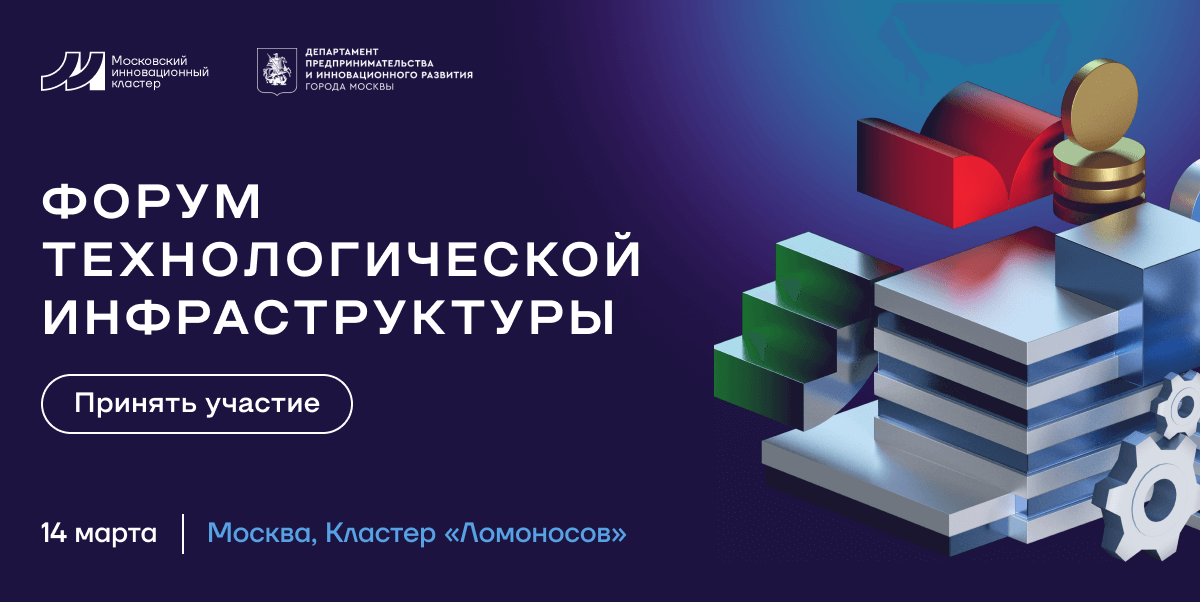
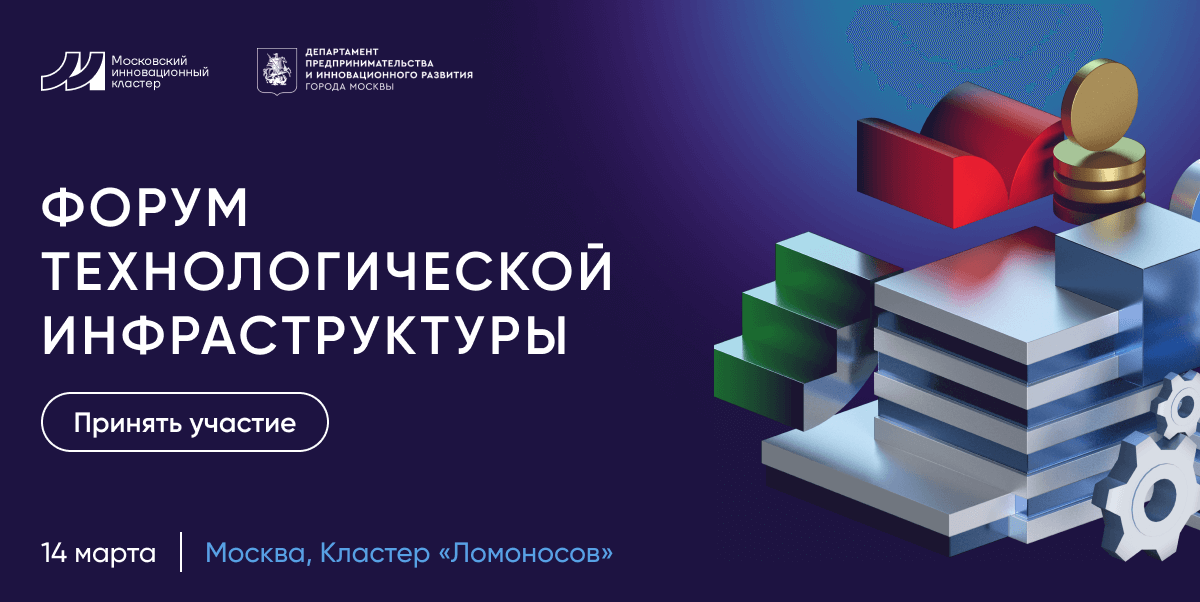
add mik-200

diff --git a/mik-200/Форум Технологической Инфраструктуры.html b/mik-200/Форум Технологической Инфраструктуры.html
@@ -136,37 +136,37 @@
             <tbody>
             <tr>
                 <td style="direction:ltr;font-size:0px;text-align:center;">
-                    <!--[if mso | IE]><table role="presentation" border="0" cellpadding="0" cellspacing="0"><tr><td class="" style="vertical-align:top;width:120px;margin-bottom:50px;" ><![endif]-->
-                    <div class="mj-outlook-group-fix" style="font-size:0px;text-align:left;direction:ltr;display:inline-block;vertical-align:top;width:120px;margin-bottom:50px;">
+                    <!--[if mso | IE]><table role="presentation" border="0" cellpadding="0" cellspacing="0"><tr><td class="" style="vertical-align:top;width:120px;margin-bottom:48px;" ><![endif]-->
+                    <div class="mj-outlook-group-fix" style="font-size:0px;text-align:left;direction:ltr;display:inline-block;vertical-align:top;width:120px;margin-bottom:48px;">
                         <table border="0" cellpadding="0" cellspacing="0" role="presentation" style="vertical-align:top;" width="100%">
                             <tbody>
                             <tr>
                                 <td align="left" style="font-size:0px;word-break:break-word;">
-                                    <div style="font-family: Gilroy, Helvetica, Arial, sans-serif;font-size:14px;font-weight:400;line-height:18.6px;text-align:left;color:#FFFFFF;"><span style="font-weight:700;font-size:40px;line-height:40px;">800+</span><br />участников</div>
+                                    <div style="font-family: Gilroy, Helvetica, Arial, sans-serif;font-size:14px;font-weight:400;line-height:16.24px;text-align:left;color:#FFFFFF;"><span style="font-weight:700;font-size:40px;line-height:40px;">800+</span><br />участников</div>
                                 </td>
                             </tr>
                             </tbody>
                         </table>
                     </div>
-                    <!--[if mso | IE]></td><td class="" style="vertical-align:top;width:120px;margin-right: 100px;margin-left: 100px;margin-bottom:50px;" ><![endif]-->
-                    <div class="mj-outlook-group-fix" style="font-size:0px;text-align:left;direction:ltr;display:inline-block;vertical-align:top;width:120px;margin-right: 100px;margin-left: 100px;margin-bottom:50px;">
+                    <!--[if mso | IE]></td><td class="" style="vertical-align:top;width:120px;margin-right: 100px;margin-left: 100px;margin-bottom:48px;" ><![endif]-->
+                    <div class="mj-outlook-group-fix" style="font-size:0px;text-align:left;direction:ltr;display:inline-block;vertical-align:top;width:120px;margin-right: 100px;margin-left: 100px;margin-bottom:48px;">
                         <table border="0" cellpadding="0" cellspacing="0" role="presentation" style="vertical-align:top;" width="100%">
                             <tbody>
                             <tr>
                                 <td align="left" style="font-size:0px;word-break:break-word;">
-                                    <div style="font-family: Gilroy, Helvetica, Arial, sans-serif;font-size:14px;font-weight:400;line-height:18.6px;text-align:left;color:#FFFFFF;"><span style="font-weight:700;font-size:40px;line-height:40px;">50+</span><br />спикеров</div>
+                                    <div style="font-family: Gilroy, Helvetica, Arial, sans-serif;font-size:14px;font-weight:400;line-height:16.24px;text-align:left;color:#FFFFFF;"><span style="font-weight:700;font-size:40px;line-height:40px;">50+</span><br />спикеров</div>
                                 </td>
                             </tr>
                             </tbody>
                         </table>
                     </div>
-                    <!--[if mso | IE]></td><td class="" style="vertical-align:top;width:120px;margin-bottom:50px;" ><![endif]-->
-                    <div class="mj-outlook-group-fix" style="font-size:0px;text-align:left;direction:ltr;display:inline-block;vertical-align:top;width:120px;margin-bottom:50px;">
+                    <!--[if mso | IE]></td><td class="" style="vertical-align:top;width:120px;margin-bottom:48px;" ><![endif]-->
+                    <div class="mj-outlook-group-fix" style="font-size:0px;text-align:left;direction:ltr;display:inline-block;vertical-align:top;width:120px;margin-bottom:48px;">
                         <table border="0" cellpadding="0" cellspacing="0" role="presentation" style="vertical-align:top;" width="100%">
                             <tbody>
                             <tr>
                                 <td align="left" style="font-size:0px;word-break:break-word;">
-                                    <div style="font-family: Gilroy, Helvetica, Arial, sans-serif;font-size:14px;font-weight:400;line-height:18.6px;text-align:left;color:#FFFFFF;"><span style="font-weight:700;font-size:40px;line-height:40px;">12+</span><br />сессий деловой программы</div>
+                                    <div style="font-family: Gilroy, Helvetica, Arial, sans-serif;font-size:14px;font-weight:400;line-height:16.24px;text-align:left;color:#FFFFFF;"><span style="font-weight:700;font-size:40px;line-height:40px;">12+</span><br />сессий деловой программы</div>
                                 </td>
                             </tr>
                             </tbody>
@@ -189,8 +189,80 @@
                         <table border="0" cellpadding="0" cellspacing="0" role="presentation" style="vertical-align:top;" width="100%">
                             <tbody>
                             <tr>
-                                <td align="left" style="font-size:0px;word-break:break-word;">
-                                    <div style="font-family: Gilroy, Helvetica, Arial, sans-serif;font-size:32px;font-weight:400;line-height:32px;text-align:left;color:#FFFFFF;">Что вас ждет на мероприятии</div>
+                                <td align="left" style="font-size:0px;word-break:break-word;padding:0 20px 24px;">
+                                    <div style="font-family: Gilroy, Helvetica, Arial, sans-serif;font-size:32px;font-weight:400;line-height:32px;text-align:left;color:#FFFFFF;">Что вас ждет на&nbsp;мероприятии</div>
+                                </td>
+                            </tr>
+                            </tbody>
+                        </table>
+                    </div>
+                    <!--[if mso | IE]></td></tr></table><![endif]-->
+                </td>
+            </tr>
+            </tbody>
+        </table>
+    </div>
+    <!--[if mso | IE]></td></tr></table><table align="center" border="0" cellpadding="0" cellspacing="0" class="" style="width:560px;" width="560" bgcolor="#2E66FF" ><tr><td style="line-height:0px;font-size:0px;mso-line-height-rule:exactly;"><![endif]-->
+    <div style="background:#2E66FF;background-color:#2E66FF;margin:0px auto;border-radius:20px;max-width:560px;border:1px solid #FFFFFF;margin-bottom:24px;">
+        <table align="center" border="0" cellpadding="0" cellspacing="0" role="presentation" style="background:#2E66FF;background-color:#2E66FF;width:100%;border-radius:20px;">
+            <tbody>
+            <tr>
+                <td style="direction:ltr;font-size:0px;text-align:center;">
+                    <!--[if mso | IE]><table role="presentation" border="0" cellpadding="0" cellspacing="0"><tr><td class="" style="vertical-align:top;width:598px;" ><![endif]-->
+                    <div class="mj-column-per-100 mj-outlook-group-fix" style="font-size:0px;text-align:left;direction:ltr;display:inline-block;vertical-align:top;width:100%;">
+                        <table border="0" cellpadding="0" cellspacing="0" role="presentation" style="vertical-align:top;" width="100%">
+                            <tbody>
+                            <tr>
+                                <td align="left" style="font-size:0px;word-break:break-word;padding:19px 24px;">
+                                    <div style="font-family: Gilroy, Helvetica, Arial, sans-serif;font-size:16px;font-weight:500;line-height:20.8px;text-align:left;color:#FFFFFF;">Презентация возможностей, доступных предпринимателям в&nbsp;технопарках и&nbsp;особых экономических зонах</div>
+                                </td>
+                            </tr>
+                            </tbody>
+                        </table>
+                    </div>
+                    <!--[if mso | IE]></td></tr></table><![endif]-->
+                </td>
+            </tr>
+            </tbody>
+        </table>
+    </div>
+    <!--[if mso | IE]></td></tr></table><table align="center" border="0" cellpadding="0" cellspacing="0" class="" style="width:560px;" width="560" bgcolor="#2E66FF" ><tr><td style="line-height:0px;font-size:0px;mso-line-height-rule:exactly;"><![endif]-->
+    <div style="background:#2E66FF;background-color:#2E66FF;margin:0px auto;border-radius:20px;max-width:560px;border:1px solid #FFFFFF;margin-bottom:24px;">
+        <table align="center" border="0" cellpadding="0" cellspacing="0" role="presentation" style="background:#2E66FF;background-color:#2E66FF;width:100%;border-radius:20px;">
+            <tbody>
+            <tr>
+                <td style="direction:ltr;font-size:0px;text-align:center;">
+                    <!--[if mso | IE]><table role="presentation" border="0" cellpadding="0" cellspacing="0"><tr><td class="" style="vertical-align:top;width:598px;" ><![endif]-->
+                    <div class="mj-column-per-100 mj-outlook-group-fix" style="font-size:0px;text-align:left;direction:ltr;display:inline-block;vertical-align:top;width:100%;">
+                        <table border="0" cellpadding="0" cellspacing="0" role="presentation" style="vertical-align:top;" width="100%">
+                            <tbody>
+                            <tr>
+                                <td align="left" style="font-size:0px;word-break:break-word;padding:19px 24px;">
+                                    <div style="font-family: Gilroy, Helvetica, Arial, sans-serif;font-size:16px;font-weight:500;line-height:20.8px;text-align:left;color:#FFFFFF;">Популяризация лучших практик создания и&nbsp;управления объектами технологической инфраструктуры</div>
+                                </td>
+                            </tr>
+                            </tbody>
+                        </table>
+                    </div>
+                    <!--[if mso | IE]></td></tr></table><![endif]-->
+                </td>
+            </tr>
+            </tbody>
+        </table>
+    </div>
+    <!--[if mso | IE]></td></tr></table><table align="center" border="0" cellpadding="0" cellspacing="0" class="" style="width:560px;" width="560" bgcolor="#2E66FF" ><tr><td style="line-height:0px;font-size:0px;mso-line-height-rule:exactly;"><![endif]-->
+    <div style="background:#2E66FF;background-color:#2E66FF;margin:0px auto;border-radius:20px;max-width:560px;border:1px solid #FFFFFF;margin-bottom:24px;">
+        <table align="center" border="0" cellpadding="0" cellspacing="0" role="presentation" style="background:#2E66FF;background-color:#2E66FF;width:100%;border-radius:20px;">
+            <tbody>
+            <tr>
+                <td style="direction:ltr;font-size:0px;text-align:center;">
+                    <!--[if mso | IE]><table role="presentation" border="0" cellpadding="0" cellspacing="0"><tr><td class="" style="vertical-align:top;width:598px;" ><![endif]-->
+                    <div class="mj-column-per-100 mj-outlook-group-fix" style="font-size:0px;text-align:left;direction:ltr;display:inline-block;vertical-align:top;width:100%;">
+                        <table border="0" cellpadding="0" cellspacing="0" role="presentation" style="vertical-align:top;" width="100%">
+                            <tbody>
+                            <tr>
+                                <td align="left" style="font-size:0px;word-break:break-word;padding:19px 24px;">
+                                    <div style="font-family: Gilroy, Helvetica, Arial, sans-serif;font-size:16px;font-weight:500;line-height:20.8px;text-align:left;color:#FFFFFF;">Встречи с&nbsp;лидерами рынка — операторами технологических площадок, крупнейшими девелоперами, инвесторами и&nbsp;предпринимателями</div>
                                 </td>
                             </tr>
                             </tbody>
@@ -213,8 +285,8 @@
                         <table border="0" cellpadding="0" cellspacing="0" role="presentation" style="vertical-align:top;" width="100%">
                             <tbody>
                             <tr>
-                                <td align="left" style="font-size:0px;word-break:break-word;">
-                                    <div style="font-family: Gilroy, Helvetica, Arial, sans-serif;font-size:16px;font-weight:700;line-height:20.8px;text-align:left;color:#FFFFFF;">Презентация возможностей, доступных предпринимателям в технопарках и особых экономических зонах</div>
+                                <td align="left" style="font-size:0px;word-break:break-word;padding:19px 24px;">
+                                    <div style="font-family: Gilroy, Helvetica, Arial, sans-serif;font-size:16px;font-weight:500;line-height:20.8px;text-align:left;color:#FFFFFF;">Питч-сессии, дискуссии и&nbsp;мастер-классы от&nbsp;ведущих отраслевых экспертов</div>
                                 </td>
                             </tr>
                             </tbody>
@@ -237,7 +309,7 @@
                         <table border="0" cellpadding="0" cellspacing="0" role="presentation" style="vertical-align:top;" width="100%">
                             <tbody>
                             <tr>
-                                <td align="left" style="font-size:0px;word-break:break-word;">
+                                <td align="left" style="font-size:0px;word-break:break-word;padding:52px 20px 23px;">
                                     <div style="font-family: Gilroy, Helvetica, Arial, sans-serif;font-size:32px;font-weight:400;line-height:32px;text-align:left;color:#FFFFFF;">Для кого этот форум</div>
                                 </td>
                             </tr>
@@ -256,25 +328,97 @@
             <tbody>
             <tr>
                 <td style="direction:ltr;font-size:0px;text-align:center;">
-                    <!--[if mso | IE]><table role="presentation" border="0" cellpadding="0" cellspacing="0"><tr><td class="" style="vertical-align:top;width:300px;" ><![endif]-->
-                    <div class="mj-outlook-group-fix" style="font-size:0px;text-align:left;direction:ltr;display:inline-block;vertical-align:top;width:100%;">
+                    <!--[if mso | IE]><table role="presentation" border="0" cellpadding="0" cellspacing="0"><tr><td class="" style="vertical-align:top;width:268px;border-radius:20px;border:1px solid #FFFFFF;height:80px;margin-left:12px;margin-right:12px;margin-bottom:25px;" ><![endif]-->
+                    <div class="mj-outlook-group-fix" style="font-size:0px;text-align:left;direction:ltr;display:inline-block;vertical-align:top;width:268px;border-radius:20px;border:1px solid #FFFFFF;height:80px;margin-left:12px;margin-right:12px;margin-bottom:25px;">
                         <table border="0" cellpadding="0" cellspacing="0" role="presentation" style="vertical-align:top;" width="100%">
                             <tbody>
                             <tr>
-                                <td align="left" style="font-size:0px;word-break:break-word;">
-                                    <div style="font-family: Gilroy, Helvetica, Arial, sans-serif;font-size:16px;font-weight:700;line-height:20.8px;text-align:left;color:#FFFFFF;">Девелоперы и управляющие компании</div>
+                                <td align="left" style="font-size:0px;word-break:break-word;padding:19px 25px;">
+                                    <div style="font-family: Gilroy, Helvetica, Arial, sans-serif;font-size:16px;font-weight:700;line-height:20.8px;text-align:center;color:#FFFFFF;">Девелоперы и&nbsp;управляющие компании</div>
                                 </td>
                             </tr>
                             </tbody>
                         </table>
                     </div>
-                    <!--[if mso | IE]></td><td class="" style="vertical-align:top;width:300px;" ><![endif]-->
-                    <div class="mj-outlook-group-fix" style="font-size:0px;text-align:left;direction:ltr;display:inline-block;vertical-align:top;width:100%;">
+                    <!--[if mso | IE]></td><td class="" style="vertical-align:top;width:268px;border-radius:20px;border:1px solid #FFFFFF;height:80px;margin-left:12px;margin-right:12px;margin-bottom:25px;" ><![endif]-->
+                    <div class="mj-outlook-group-fix" style="font-size:0px;text-align:left;direction:ltr;display:inline-block;vertical-align:top;width:268px;border-radius:20px;border:1px solid #FFFFFF;height:80px;margin-left:12px;margin-right:12px;margin-bottom:25px;">
                         <table border="0" cellpadding="0" cellspacing="0" role="presentation" style="vertical-align:top;" width="100%">
                             <tbody>
                             <tr>
-                                <td align="left" style="font-size:0px;word-break:break-word;">
-                                    <div style="font-family: Gilroy, Helvetica, Arial, sans-serif;font-size:16px;font-weight:700;line-height:20.8px;text-align:left;color:#FFFFFF;">Технологические компании</div>
+                                <td align="left" style="font-size:0px;word-break:break-word;padding:19px 25px;">
+                                    <div style="font-family: Gilroy, Helvetica, Arial, sans-serif;font-size:16px;font-weight:700;line-height:20.8px;text-align:center;color:#FFFFFF;">Технологические<br/>компании</div>
+                                </td>
+                            </tr>
+                            </tbody>
+                        </table>
+                    </div>
+                    <!--[if mso | IE]></td></tr></table><![endif]-->
+                </td>
+            </tr>
+            </tbody>
+        </table>
+    </div>
+    <!--[if mso | IE]></td></tr></table><table align="center" border="0" cellpadding="0" cellspacing="0" class="" style="width:600px;" width="600" ><tr><td style="line-height:0px;font-size:0px;mso-line-height-rule:exactly;"><![endif]-->
+    <div style="margin:0px auto;max-width:600px;">
+        <table align="center" border="0" cellpadding="0" cellspacing="0" role="presentation" style="width:100%;">
+            <tbody>
+            <tr>
+                <td style="direction:ltr;font-size:0px;text-align:center;">
+                    <!--[if mso | IE]><table role="presentation" border="0" cellpadding="0" cellspacing="0"><tr><td class="" style="vertical-align:top;width:268px;border-radius:20px;border:1px solid #FFFFFF;height:80px;margin-left:12px;margin-right:12px;margin-bottom:25px;" ><![endif]-->
+                    <div class="mj-outlook-group-fix" style="font-size:0px;text-align:left;direction:ltr;display:inline-block;vertical-align:top;width:268px;border-radius:20px;border:1px solid #FFFFFF;height:80px;margin-left:12px;margin-right:12px;margin-bottom:25px;">
+                        <table border="0" cellpadding="0" cellspacing="0" role="presentation" style="vertical-align:top;" width="100%">
+                            <tbody>
+                            <tr>
+                                <td align="left" style="font-size:0px;word-break:break-word;padding:19px 25px;">
+                                    <div style="font-family: Gilroy, Helvetica, Arial, sans-serif;font-size:16px;font-weight:700;line-height:20.8px;text-align:center;color:#FFFFFF;">Банки и&nbsp;инвестиционные фонды</div>
+                                </td>
+                            </tr>
+                            </tbody>
+                        </table>
+                    </div>
+                    <!--[if mso | IE]></td><td class="" style="vertical-align:top;width:268px;border-radius:20px;border:1px solid #FFFFFF;height:80px;margin-left:12px;margin-right:12px;margin-bottom:25px;" ><![endif]-->
+                    <div class="mj-outlook-group-fix" style="font-size:0px;text-align:left;direction:ltr;display:inline-block;vertical-align:top;width:268px;border-radius:20px;border:1px solid #FFFFFF;height:80px;margin-left:12px;margin-right:12px;margin-bottom:25px;">
+                        <table border="0" cellpadding="0" cellspacing="0" role="presentation" style="vertical-align:top;" width="100%">
+                            <tbody>
+                            <tr>
+                                <td align="left" style="font-size:0px;word-break:break-word;padding:19px 25px;">
+                                    <div style="font-family: Gilroy, Helvetica, Arial, sans-serif;font-size:16px;font-weight:700;line-height:20.8px;text-align:center;color:#FFFFFF;">Институты развития и&nbsp;органы власти</div>
+                                </td>
+                            </tr>
+                            </tbody>
+                        </table>
+                    </div>
+                    <!--[if mso | IE]></td></tr></table><![endif]-->
+                </td>
+            </tr>
+            </tbody>
+        </table>
+    </div>
+    <!--[if mso | IE]></td></tr></table><table align="center" border="0" cellpadding="0" cellspacing="0" class="" style="width:600px;" width="600" ><tr><td style="line-height:0px;font-size:0px;mso-line-height-rule:exactly;"><![endif]-->
+    <div style="margin:0px auto;max-width:600px;">
+        <table align="center" border="0" cellpadding="0" cellspacing="0" role="presentation" style="width:100%;">
+            <tbody>
+            <tr>
+                <td style="direction:ltr;font-size:0px;text-align:center;">
+                    <!--[if mso | IE]><table role="presentation" border="0" cellpadding="0" cellspacing="0"><tr><td class="" style="vertical-align:top;width:268px;border-radius:20px;border:1px solid #FFFFFF;height:103px;margin-left:12px;margin-right:12px;margin-bottom:25px;" ><![endif]-->
+                    <div class="mj-outlook-group-fix" style="font-size:0px;text-align:left;direction:ltr;display:inline-block;vertical-align:top;width:268px;border-radius:20px;border:1px solid #FFFFFF;height:103px;margin-left:12px;margin-right:12px;margin-bottom:25px;">
+                        <table border="0" cellpadding="0" cellspacing="0" role="presentation" style="vertical-align:top;" width="100%">
+                            <tbody>
+                            <tr>
+                                <td align="left" style="font-size:0px;word-break:break-word;padding:29px 25px;">
+                                    <div style="font-family: Gilroy, Helvetica, Arial, sans-serif;font-size:16px;font-weight:700;line-height:20.8px;text-align:center;color:#FFFFFF;">Собственники технологических площадок</div>
+                                </td>
+                            </tr>
+                            </tbody>
+                        </table>
+                    </div>
+                    <!--[if mso | IE]></td><td class="" style="vertical-align:top;width:268px;border-radius:20px;border:1px solid #FFFFFF;height:103px;margin-left:12px;margin-right:12px;margin-bottom:25px;" ><![endif]-->
+                    <div class="mj-outlook-group-fix" style="font-size:0px;text-align:left;direction:ltr;display:inline-block;vertical-align:top;width:268px;border-radius:20px;border:1px solid #FFFFFF;height:103px;margin-left:12px;margin-right:12px;margin-bottom:25px;">
+                        <table border="0" cellpadding="0" cellspacing="0" role="presentation" style="vertical-align:top;" width="100%">
+                            <tbody>
+                            <tr>
+                                <td align="left" style="font-size:0px;word-break:break-word;padding:19px 38px;">
+                                    <div style="font-family: Gilroy, Helvetica, Arial, sans-serif;font-size:16px;font-weight:700;line-height:20.8px;text-align:center;color:#FFFFFF;">Проектировщики, дизайнеры и&nbsp;архитекторы</div>
                                 </td>
                             </tr>
                             </tbody>
@@ -297,16 +441,16 @@
                         <table border="0" cellpadding="0" cellspacing="0" role="presentation" style="vertical-align:top;" width="100%">
                             <tbody>
                             <tr>
-                                <td align="left" style="font-size:0px;word-break:break-word;">
-                                    <div style="font-family: Gilroy, Helvetica, Arial, sans-serif;font-size:16px;font-weight:700;line-height:20.8px;text-align:left;color:#FFFFFF;">Форум состоится 14 марта в кластере «Ломоносов».<br />Участие бесплатное по предварительной регистрации.</div>
+                                <td align="center" style="font-size:0px;word-break:break-word;padding:20px 20px 24px;">
+                                    <div style="font-family: Gilroy, Helvetica, Arial, sans-serif;font-size:16px;font-weight:500;line-height:20.8px;text-align:center;color:#FFFFFF;">Форум состоится 14 марта в кластере «Ломоносов».<br />Участие бесплатное по предварительной регистрации.</div>
                                 </td>
                             </tr>
                             <tr>
-                                <td align="center" vertical-align="middle" style="font-size:0px;word-break:break-word;">
-                                    <table border="0" cellpadding="0" cellspacing="0" role="presentation" style="border-collapse:separate;width:195px;line-height:100%;">
+                                <td align="center" vertical-align="middle" style="font-size:0px;word-break:break-word;padding-bottom: 25px;">
+                                    <table border="0" cellpadding="0" cellspacing="0" role="presentation" style="border-collapse:separate;max-width:182px;width:100%;line-height:100%;">
                                         <tr>
                                             <td align="center" bgcolor="#2E66FF" role="presentation" style="border:none;border-radius:100px;cursor:auto;height:52px;mso-padding-alt:10px 25px;background:#2E66FF;" valign="middle">
-                                                <a href="https://i.moscow/fti?utm_source=marketing&utm_medium=email&utm_campaign=digital&utm_content=ftistartup&utm_term=1302" style="display:inline-block;width:145px;background:#2E66FF;color:#FFFFFF;font-family: Gilroy, Helvetica, Arial, sans-serif;font-size:20px;font-weight:600;line-height:20px;margin:0;text-decoration:none;text-transform:none;mso-padding-alt:0px;border-radius:100px;" target="_blank"> Участвовать </a>
+                                                <a href="https://i.moscow/fti?utm_source=marketing&utm_medium=email&utm_campaign=digital&utm_content=ftistartup&utm_term=1302" style="display:inline-block;background:#2E66FF;color:#FFFFFF;font-family: Gilroy, Helvetica, Arial, sans-serif;font-size:20px;font-weight:600;line-height:20px;margin:0;text-decoration:none;text-transform:none;mso-padding-alt:0px;border-radius:100px;" target="_blank"> Участвовать </a>
                                             </td>
                                         </tr>
                                     </table>
